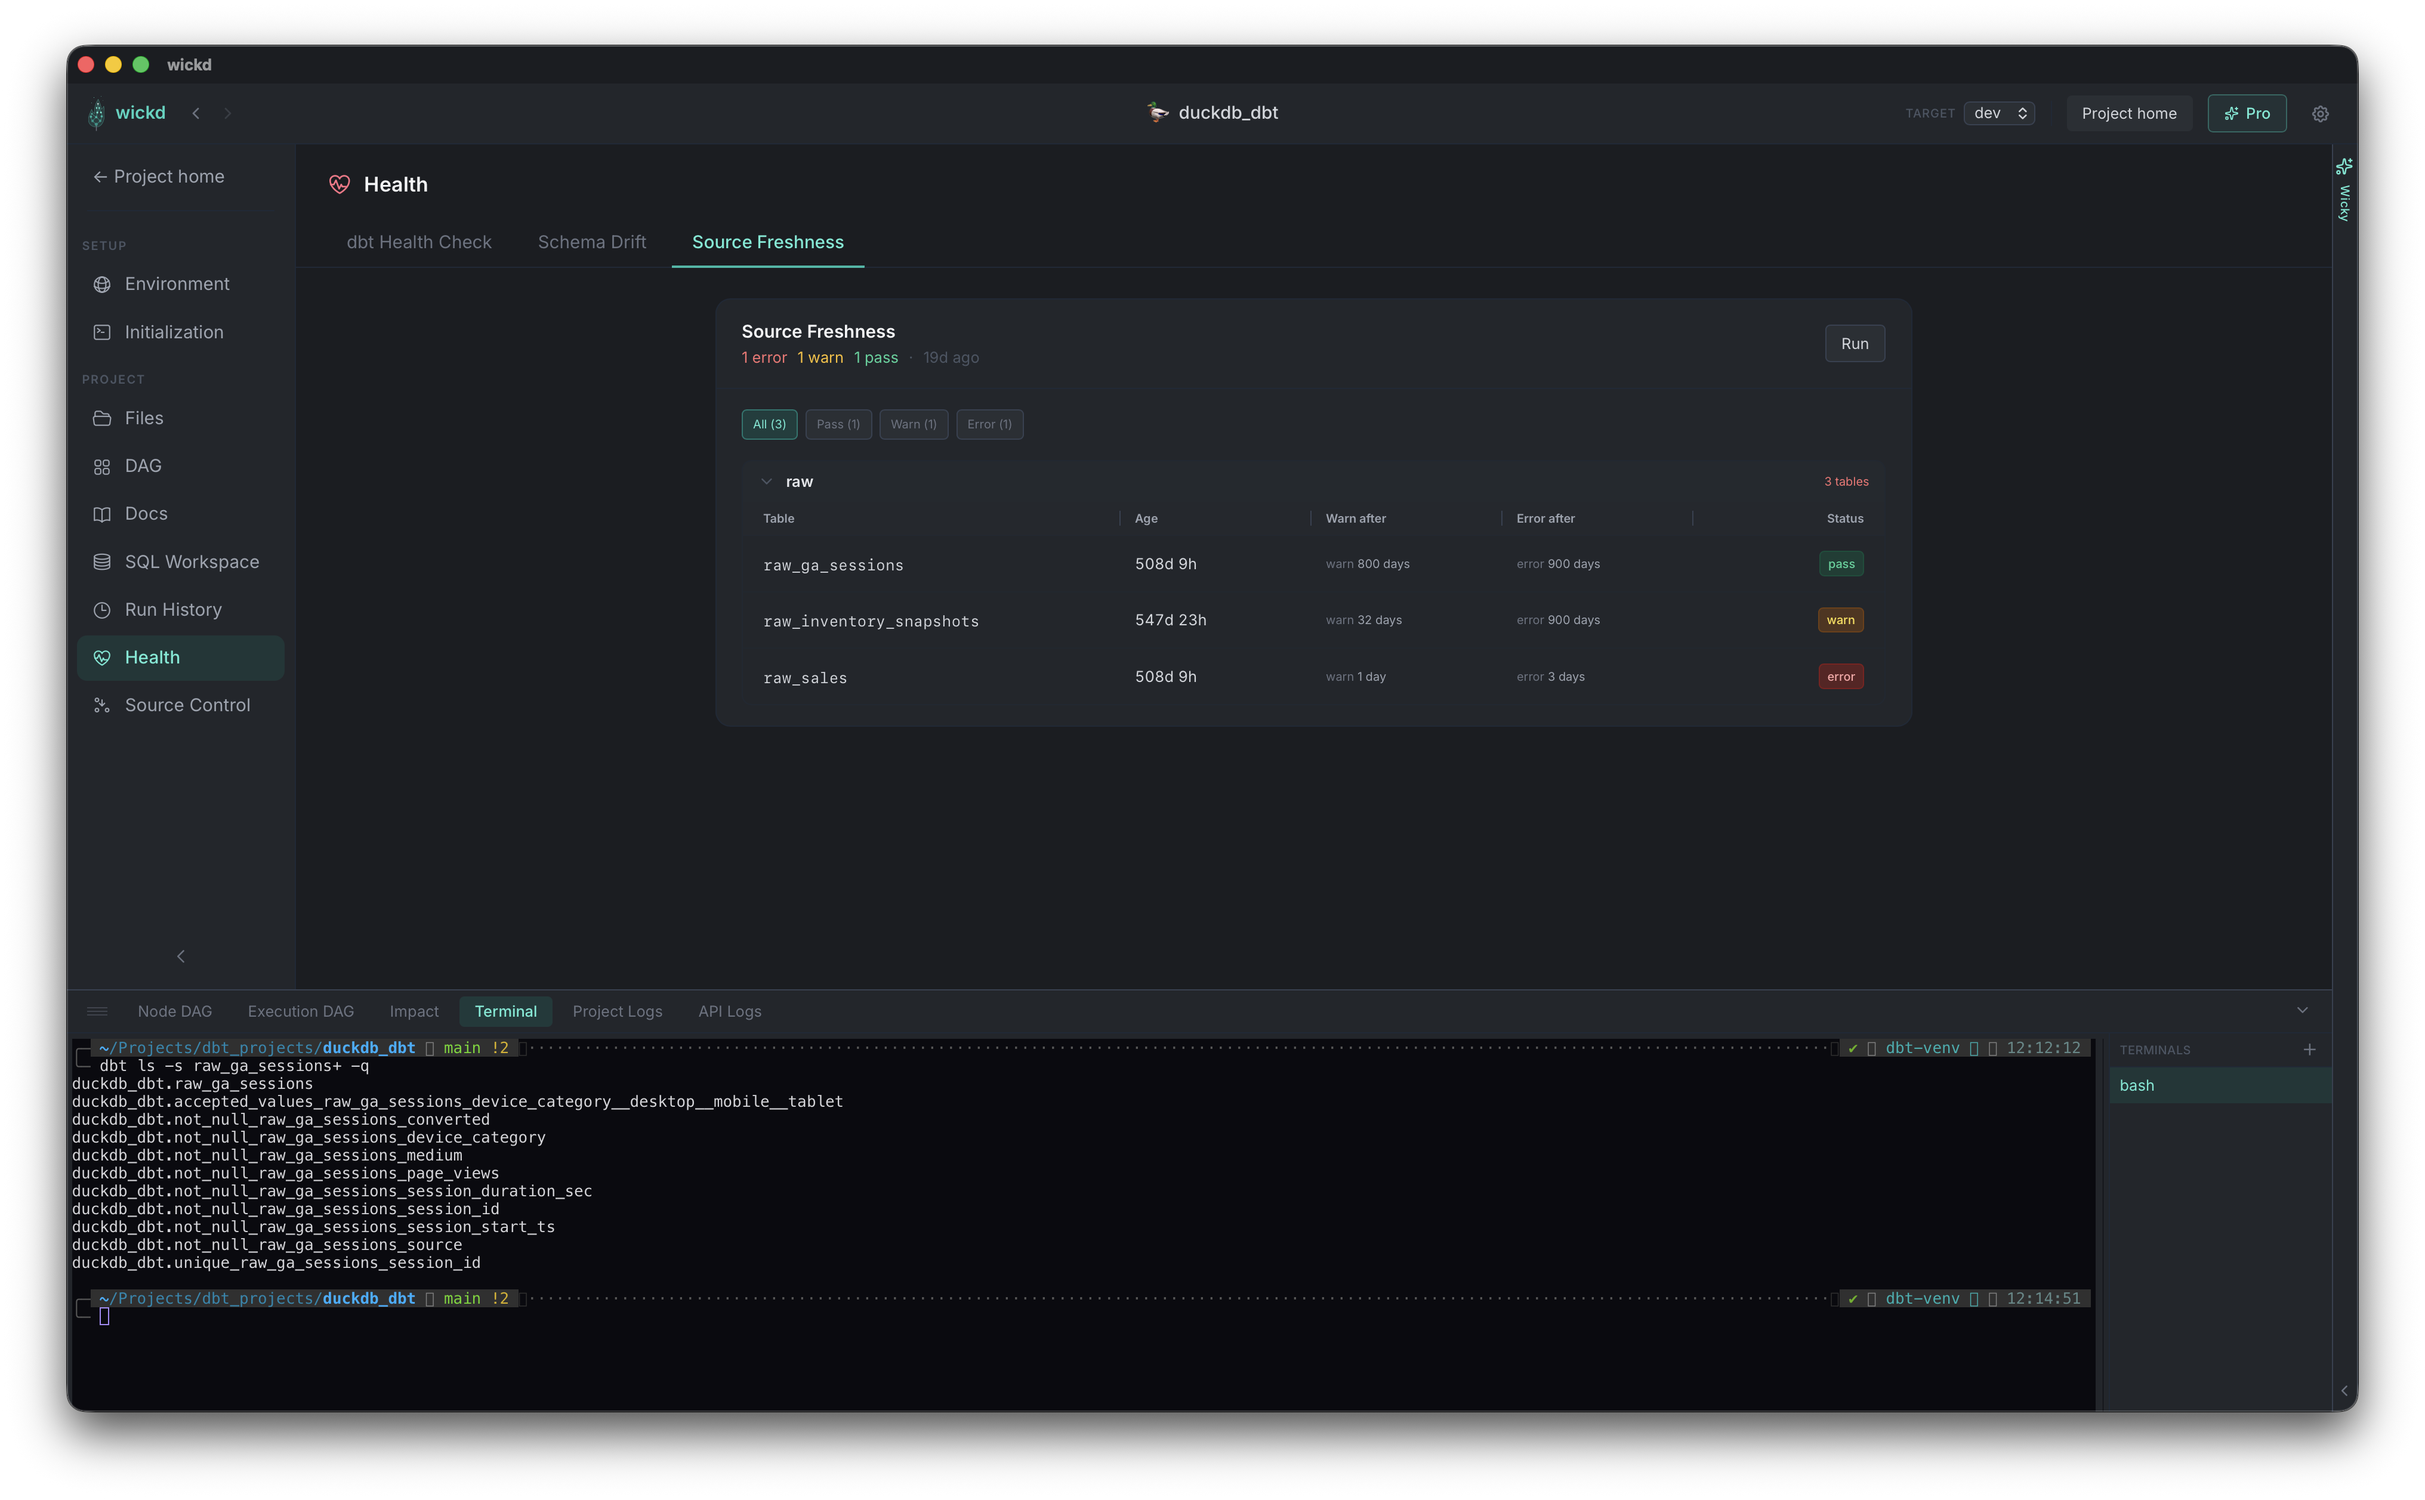
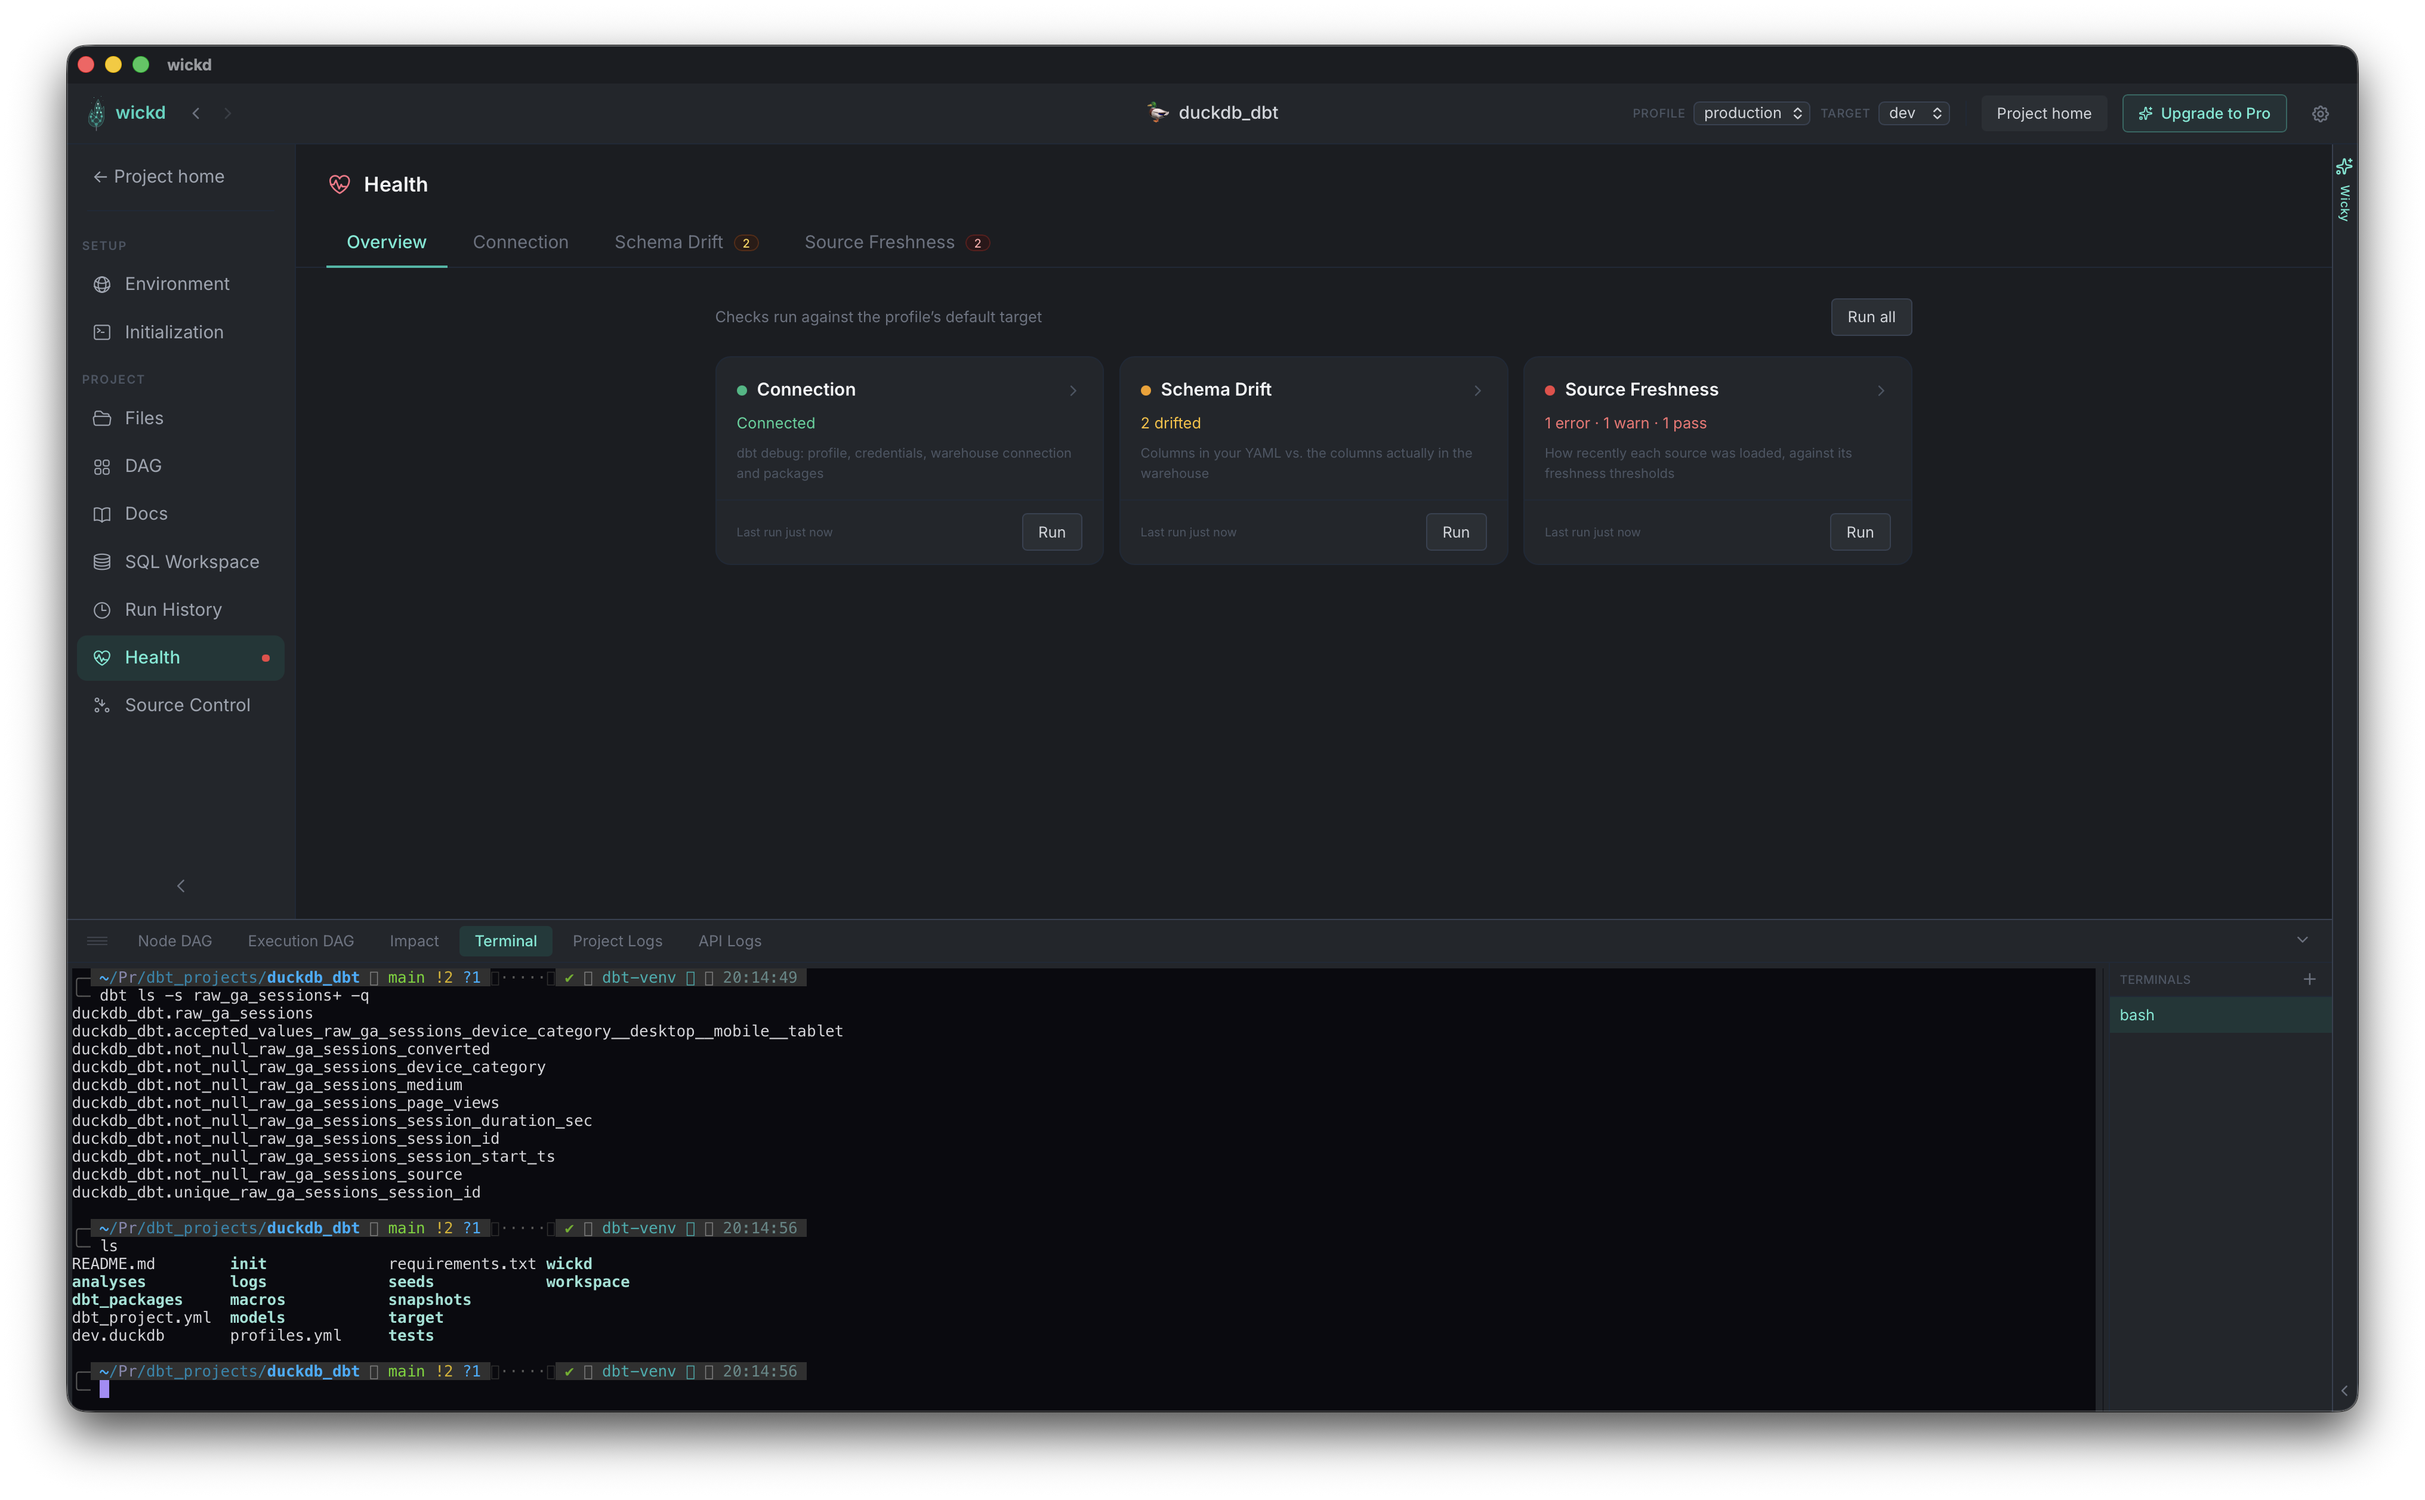
fixing bugs and quality of life improvements

diff --git a/frontend/src/routes/Project/components/NavRail.tsx b/frontend/src/routes/Project/components/NavRail.tsx
@@ -17,13 +17,20 @@ export default function NavRail({ projectId, current }: Props) {
   const [collapsed, setCollapsed] = useState(() => localStorage.getItem(STORAGE_KEY) === 'true');
   const [expandedWidth, setExpandedWidth] = useState(DEFAULT_WIDTH);
   const resizing = useRef(false);
+  // Mirrors `resizing` for rendering: the width transition is off while dragging,
+  // otherwise every mouse move animates and the edge lags behind the cursor
+  const [dragging, setDragging] = useState(false);
 
   useEffect(() => {
     const onMouseMove = (e: MouseEvent) => {
       if (!resizing.current || collapsed) return;
       setExpandedWidth((w) => Math.max(MIN_WIDTH, Math.min(MAX_WIDTH, w + e.movementX)));
     };
-    const onMouseUp = () => { resizing.current = false; };
+    const onMouseUp = () => {
+      if (!resizing.current) return;
+      resizing.current = false;
+      setDragging(false);
+    };
     window.addEventListener('mousemove', onMouseMove);
     window.addEventListener('mouseup', onMouseUp);
     return () => {
@@ -37,7 +44,7 @@ export default function NavRail({ projectId, current }: Props) {
   return (
     <div
       style={{ width }}
-      className="shrink-0 bg-surface-panel border-r border-gray-800 flex flex-col overflow-hidden relative transition-[width] duration-150"
+      className={`shrink-0 bg-surface-panel border-r border-gray-800 flex flex-col overflow-hidden relative ${dragging ? '' : 'transition-[width] duration-150'}`}
     >
       <ProjectNav
         projectId={projectId}
@@ -51,7 +58,11 @@ export default function NavRail({ projectId, current }: Props) {
       />
       {!collapsed && (
         <div
-          onMouseDown={() => { resizing.current = true; }}
+          onMouseDown={(e) => {
+            e.preventDefault(); // otherwise the drag starts a text selection on the page
+            resizing.current = true;
+            setDragging(true);
+          }}
           className="absolute right-0 top-0 bottom-0 w-1 cursor-col-resize hover:bg-brand-500/40 transition-colors z-10"
         />
       )}

diff --git a/frontend/src/routes/Project/components/drift/ModelDriftRow.tsx b/frontend/src/routes/Project/components/drift/ModelDriftRow.tsx
@@ -139,11 +139,11 @@ export default function ModelDriftRow({ projectId, snapshotId, result, defaultOp
                 {awaitingBuild ? 'Building…' : 'Build model'}
               </button>
             )}
-            {hasManifestOnly && result.yaml_path && (
+            {(hasManifestOnly || hasWarehouseOnly) && result.yaml_path && (
               <button
                 type="button"
                 onClick={() => navigate(`/projects/${projectId}/files?path=${encodeURIComponent(result.yaml_path!)}`)}
-                title={`Open ${result.yaml_path} — remove columns that no longer exist`}
+                title={`Open ${result.yaml_path} to edit this model's columns`}
                 className={ACTION_CLS}
               >
                 <FileText className="w-3 h-3" />

diff --git a/frontend/src/routes/Project/Docs.tsx b/frontend/src/routes/Project/Docs.tsx
@@ -588,7 +588,7 @@ export default function DocsPage() {
           )}
         </div>
 
-        <div onMouseDown={() => { listResizing.current = true; }} className="absolute right-0 top-0 bottom-0 w-1 cursor-col-resize hover:bg-brand-500/40 transition-colors" />
+        <div onMouseDown={(e) => { e.preventDefault(); listResizing.current = true; }} className="absolute right-0 top-0 bottom-0 w-1 cursor-col-resize hover:bg-brand-500/40 transition-colors" />
       </div>
 
       {/* Detail panel */}

diff --git a/frontend/src/routes/Project/Workspace/index.tsx b/frontend/src/routes/Project/Workspace/index.tsx
@@ -882,7 +882,7 @@ export default function WorkspacePage() {
 
         {/* Tree/panel right resize handle */}
         <div
-          onMouseDown={() => { treeResizing.current = true; }}
+          onMouseDown={(e) => { e.preventDefault(); treeResizing.current = true; }}
           className="absolute right-0 top-0 bottom-0 w-1 cursor-col-resize hover:bg-brand-500/40 transition-colors"
         />
       </div>

diff --git a/frontend/src/routes/Project/FileExplorer/index.tsx b/frontend/src/routes/Project/FileExplorer/index.tsx
@@ -553,7 +553,7 @@ export default function FileExplorerPage() {
           ))}
         </div>
         <div
-          onMouseDown={() => { treeResizing.current = true; }}
+          onMouseDown={(e) => { e.preventDefault(); treeResizing.current = true; }}
           className="absolute right-0 top-0 bottom-0 w-1 cursor-col-resize hover:bg-brand-500/40 transition-colors"
         />
       </div>

diff --git a/frontend/src/routes/Project/Git/index.tsx b/frontend/src/routes/Project/Git/index.tsx
@@ -258,7 +258,7 @@ export default function GitPage() {
 
       <div
         className="w-1 shrink-0 cursor-col-resize bg-zinc-800 hover:bg-brand-500 transition-colors"
-        onMouseDown={() => { changesResizing.current = true; }}
+        onMouseDown={(e) => { e.preventDefault(); changesResizing.current = true; }}
       />
 
       {/* Diff view */}

diff --git a/frontend/src/routes/Project/Health.tsx b/frontend/src/routes/Project/Health.tsx
@@ -55,7 +55,7 @@ export default function HealthPage() {
             <h1 className="text-base font-semibold text-gray-100">Health</h1>
           </div>
 
-          <div className="flex gap-1 overflow-x-auto">
+          <div className="flex gap-1">
             {TABS.map((tab) => (
               <button
                 key={tab.id}

diff --git a/docs/architecture.md b/docs/architecture.md
@@ -841,7 +841,7 @@ Session state (`sessionStorage`) persists open file path, expanded tree nodes, a
 - Header: issue summary, models checked vs. skipped by materialization, the target scanned; stale notice from the health summary
 - Live progress via SSE (`drift_started` resets it, `drift_progress`, `drift_finished`)
 - `drift/DriftResults.tsx`: model search, filter pills, groups Drifted / Not built / Errors, and an expandable In sync list. Rows start collapsed (one-line summary such as `2 warehouse-only · 1 manifest-only`) when more than 5 have issues
-- `drift/ModelDriftRow.tsx` actions: re-check (↻), Build model for not-built models or manifest-only columns (`dbt build --select <uid>`, then re-checks on `run_finished`), Open YAML (`yaml_path`, manifest-only columns), Document N warehouse-only columns
+- `drift/ModelDriftRow.tsx` actions: re-check (↻), Build model for not-built models or manifest-only columns (`dbt build --select <uid>`, then re-checks on `run_finished`), Open YAML (`yaml_path`, for manifest-only or warehouse-only columns), Document N warehouse-only columns
 - Interrupted snapshots (server restart mid-scan) are reset to `status=error` on startup
 
 ### 14. Model Column Profile
